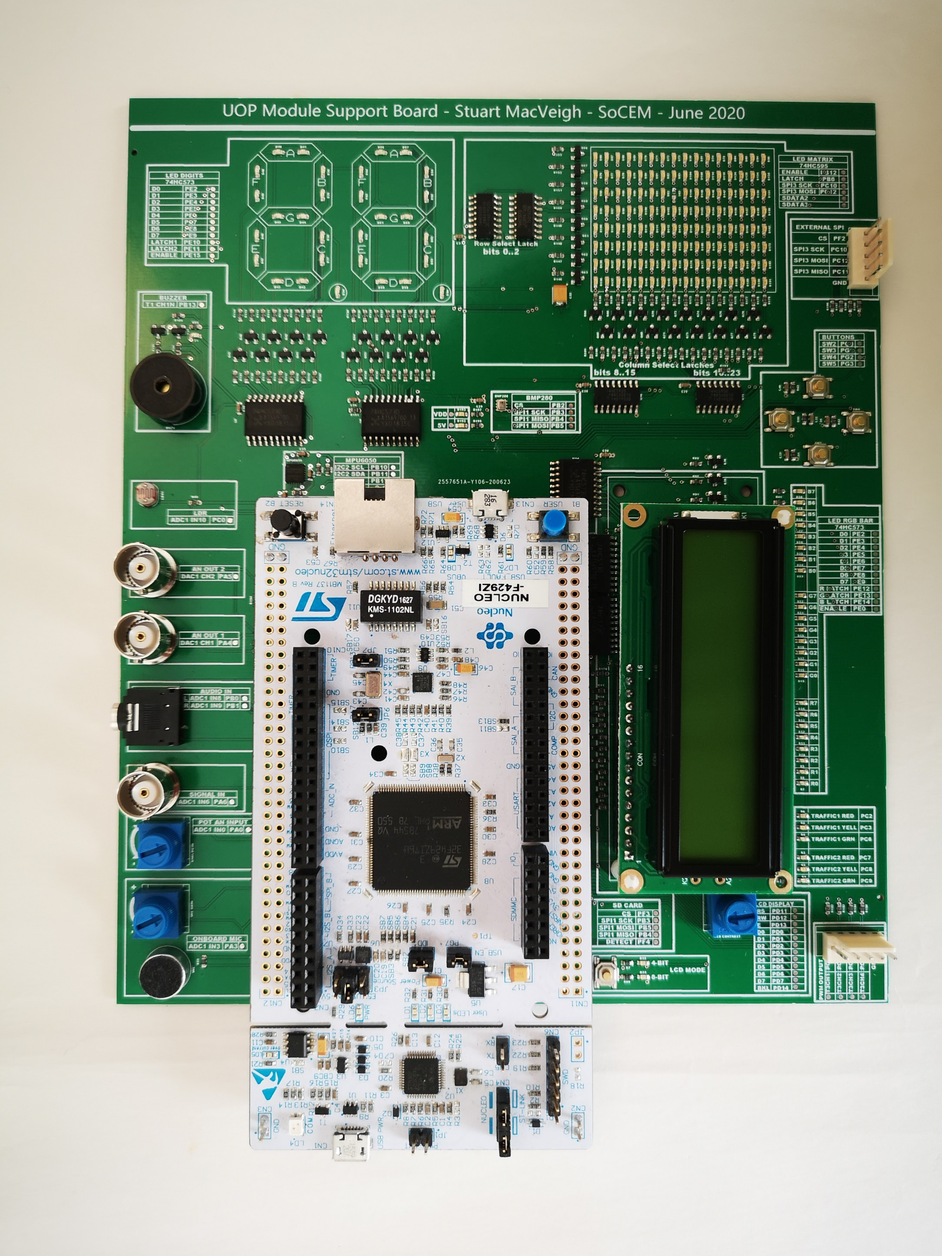
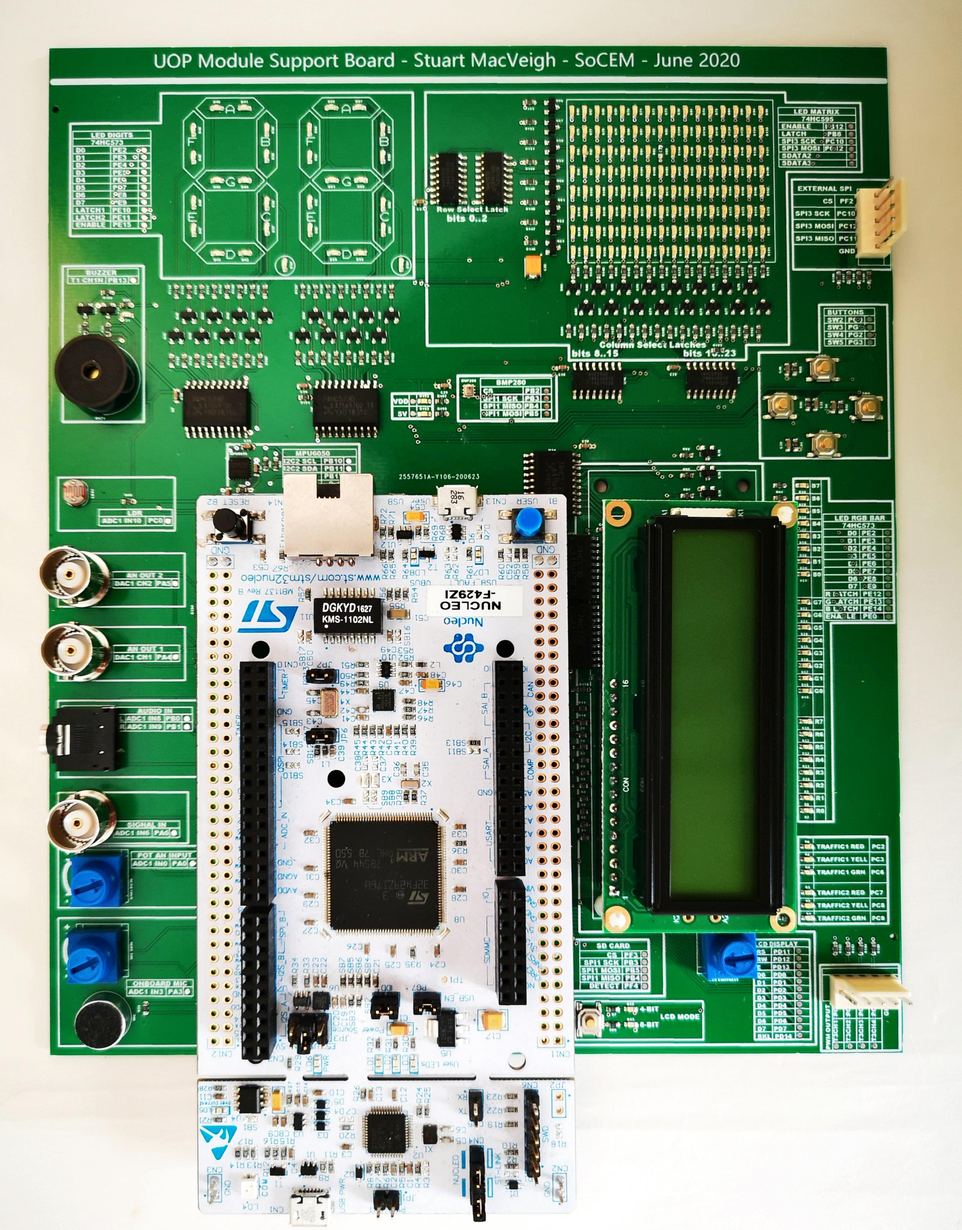
added images

diff --git a/getting_started.md b/getting_started.md
@@ -40,29 +40,49 @@ The [Nucleo Target Board](#Target-Board) contains a few _peripherals_, including
 
 The Module Support Board contains a **lot** more peripherals you can communicate with. This will help you gain valuable experience interfacing to electronic devices as you go through the course. 
 
+<img src="img/msb/msb.jpg" width="600px">
+
+Your Nucleo board connects directly onto this board. Check the alignment using the following image and carefully connect your Nucleo to the module support board.
+
+ > Never force! The connectors need to be aligned carfully, and gentle pressure should be enough to get the Nucleo pins to seat into the sockets.
+
+ It is suggested that you do not remove the Nucleo from the module support board until instructed to do so.
+
+<img src="img/msb/msb+nucleo.jpg" width="600px">
+
 ## Software
 
-* All the software we use is free
+* All the software we use in this course is free
 * Where possible, software is supported cross platform
 
 1. [Microsoft Teams](#Microsoft-Teams)
-1. [Installing Mbed Studio](#Installing-Mbed-Studio)
+1. [Mbed Studio](#Mbed-Studio)
 1. [Installing Optional ST Software](#Installing-Optional-ST-Software)
 1. [Visual Studio Code](#Visual-Studio-Code)
 1. [GitHub Desktop](#GitHub-Desktop)
 1. [Connecting and Updating your Development Board](#Connecting-and-Updating-your-Development-Board)
 1. [Testing-Your-Board](Testing-Your-Board)
 
+We will now install each package in turn.
+
+<img src="img/icons/teams.png" width="80px" align="right" >
+
 ### Microsoft Teams
+
 For University of Plymouth students, this is essential!
 
-[Click this link to download and install Microsoft Teams](https://www.microsoft.com/microsoft-365/microsoft-teams/download-app)
+> [Click this link to download and install Microsoft Teams](https://www.microsoft.com/microsoft-365/microsoft-teams/download-app)
 
 Teams allows us to collaborate in many ways, including screen sharing and remote control. This has proven highly effective for supporting students with technical questions.
 
-Should any of the following steps fail, you can contact the module leader or technician (via instant message) and they should be able to help you. 
+Should any of the following steps fail, you can contact the module leader or technician (via instant message) and they should be able to help you.
 
-### Installing Mbed Studio
+When you run Teams for the first time, sign in with your university credentials. Then check your audio and video settings are set to your preferred devices.
+
+<img src="img/icons/mbed-studio.png" width="80px" align="right" >
+
+### Mbed Studio
+
 [Mbed](https://os.mbed.com/) is a framework for rapidly and easiy programming microcontrollers. It is used in most of our modules where microcontrollers are used. 
 
 > You may have heard of the [Arduino](https://www.arduino.cc/) system? It is similar in many ways. In fact, for the latest versions, Arduino is built on top of Mbed-os.
